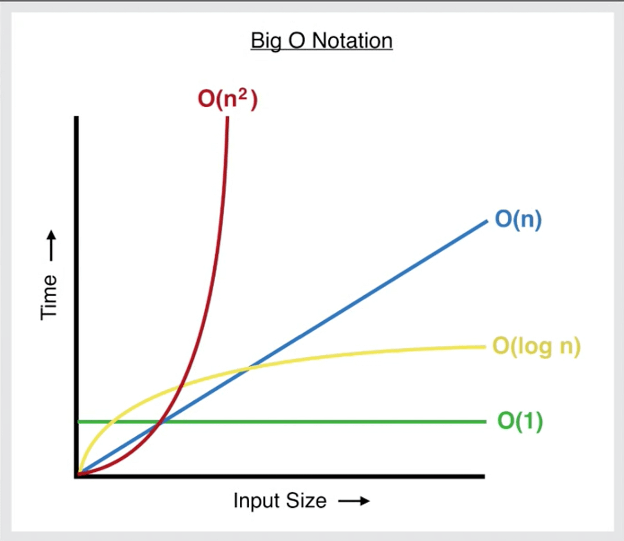
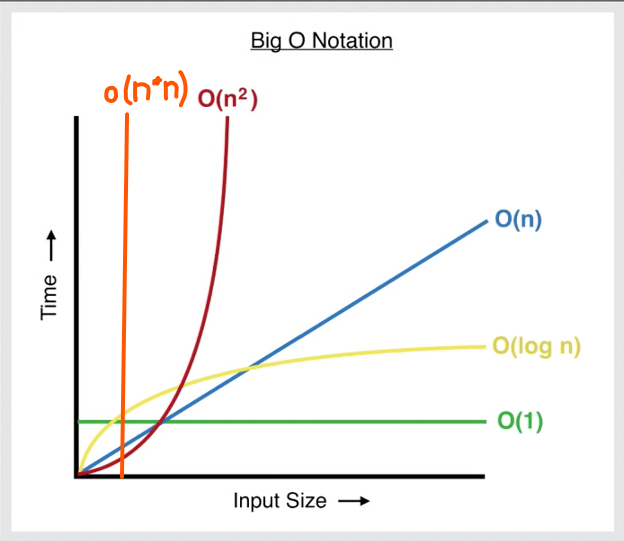
Rename AStarMaze to AStarMazeGuided and implement Manhattan distance heuristic in MazeSolver

Changed region(s): [[0.1522, 0.1183, 0.3045, 0.8872]]

diff --git a/src/main/java/app/Graphs/AStar/MazeSolver.java b/src/main/java/app/Graphs/AStar/MazeSolver.java
@@ -1,4 +1,4 @@
-package app.Designpatterns.PortfolioExercise.AStar;
+package app.Graphs.AStar;
 
 import java.util.*;
 
@@ -41,7 +41,7 @@ public class MazeSolver {
                 for (int[] d : directions) {
                     int nr = r + d[0], nc = c + d[1];
                     if (nr >= 0 && nr < ROWS && nc >= 0 && nc < COLS && nodes[nr][nc] != null) {
-                        nodes[r][c].addNeighbor(nodes[nr][nc]);
+                        nodes[r][c].addNeighbors(nodes[nr][nc]);
                     }
                 }
             }
@@ -53,24 +53,30 @@ public class MazeSolver {
         findShortestPath(source, destination);
     }
 
+    // Manhattan-afstand som heuristik
+    private static int heuristic(MazeNode node, MazeNode destination) {
+        return Math.abs(destination.getRow() - node.getRow())
+                + Math.abs(destination.getCol() - node.getCol());
+    }
 
     public static void findShortestPath(MazeNode source, MazeNode destination) {
-        DistanceMetric distanceMetric = new ManhattanDistance();
         Map<MazeNode, MazeNode> prev = new HashMap<>();
         Map<MazeNode, Integer> dist = new HashMap<>();
         Set<MazeNode> visited = new HashSet<>();
 
         PriorityQueue<NodeWithDist> queue = new PriorityQueue<>();
-        queue.add(new NodeWithDist(source, 0, distanceMetric.heuristic(source, destination)));
+        queue.add(new NodeWithDist(source, 0, heuristic(source, destination)));
         dist.put(source, 0);
 
         while (!queue.isEmpty()) {
-            NodeWithDist current = queue.poll();
+            NodeWithDist current = queue.poll(); // Gripper fat i node med lavest F Cost (billigste)
 
-            if (current.node.equals(destination)) break;
-            if (visited.contains(current.node)) continue;
-            visited.add(current.node);
+            if (current.node.equals(destination)) break; // Har vi nået destinationen?
+            if (visited.contains(current.node)) continue; // Har vi besøgt den før?
+            visited.add(current.node); // Vi tilføjer til visited
 
+
+            // Vi tager fat i current/source naboer
             for (MazeNode next : current.node.getNeighbors()) {
                 if (visited.contains(next)) continue;
 
@@ -80,7 +86,7 @@ public class MazeSolver {
                 if (newDist < dist.getOrDefault(next, Integer.MAX_VALUE)) {
                     dist.put(next, newDist);
                     prev.put(next, current.node);
-                    queue.add(new NodeWithDist(next, newDist, distanceMetric.heuristic(next, destination)));
+                    queue.add(new NodeWithDist(next, newDist, heuristic(next, destination)));
                 }
             }
         }

diff --git a/src/main/java/app/Graphs/AStar/AStarMazeGuided.java b/src/main/java/app/Graphs/AStar/AStarMazeGuided.java
@@ -2,7 +2,7 @@ package app.Graphs.AStar;
 
 import java.util.*;
 
-public class AStarMaze {
+public class AStarMazeGuided {
 
     // Nordby = 2
     // Sydby = 3
@@ -79,15 +79,6 @@ public class AStarMaze {
                 + Math.abs(destination.getCol() - node.getCol());
     }
 
-    private static String heuristicExplanation(MazeNode node, MazeNode destination)  {
-        int rowDiff = Math.abs(destination.getRow() - node.getRow());
-        int colDiff = Math.abs(destination.getCol() - node.getCol());
-        int hCost = rowDiff + colDiff;
-        return String.format("|%d - %d| + |%d - %d| = %d + %d = %d",
-                destination.getRow(), node.getRow(),
-                destination.getCol(), node.getCol(),
-                rowDiff, colDiff, hCost);
-    }
 
     public static void findShortestPath(MazeNode source, MazeNode destination)  {
         Map<MazeNode, MazeNode> prev = new HashMap<>();

diff --git a/src/main/java/app/Designpatterns/PortfolioExercise/Annotations/Role.java b/src/main/java/app/Designpatterns/PortfolioExercise/Annotations/Role.java
@@ -5,8 +5,8 @@ import java.lang.annotation.Retention;
 import java.lang.annotation.RetentionPolicy;
 import java.lang.annotation.Target;
 
-@Retention(RetentionPolicy.RUNTIME)
-@Target(ElementType.METHOD)
+@Retention(RetentionPolicy.RUNTIME) // Behold annotationerne imens programmet kører
+@Target(ElementType.METHOD)  // Kan kun blive brugt på metoder
 public @interface Role {
     String value(); // fx "admin", "user"
 }

diff --git a/src/main/java/app/Designpatterns/PortfolioExercise/ValgfritPattern/MergeSort.java b/src/main/java/app/Designpatterns/PortfolioExercise/ValgfritPattern/MergeSort.java
@@ -35,6 +35,7 @@ public class MergeSort implements SortStrategy{
     }
 
     private void merge(int[] arr, int[] left, int[]right)  {
+        // i fortæller hvor vi skal placere det næste element i arrayet, l og r fortæller hvilket position af left/right arrayet vi er
         int i = 0, l = 0, r = 0;
 
         // Vi sammenligner elementerne i left og right og kopierer det mindste element ind i arr
